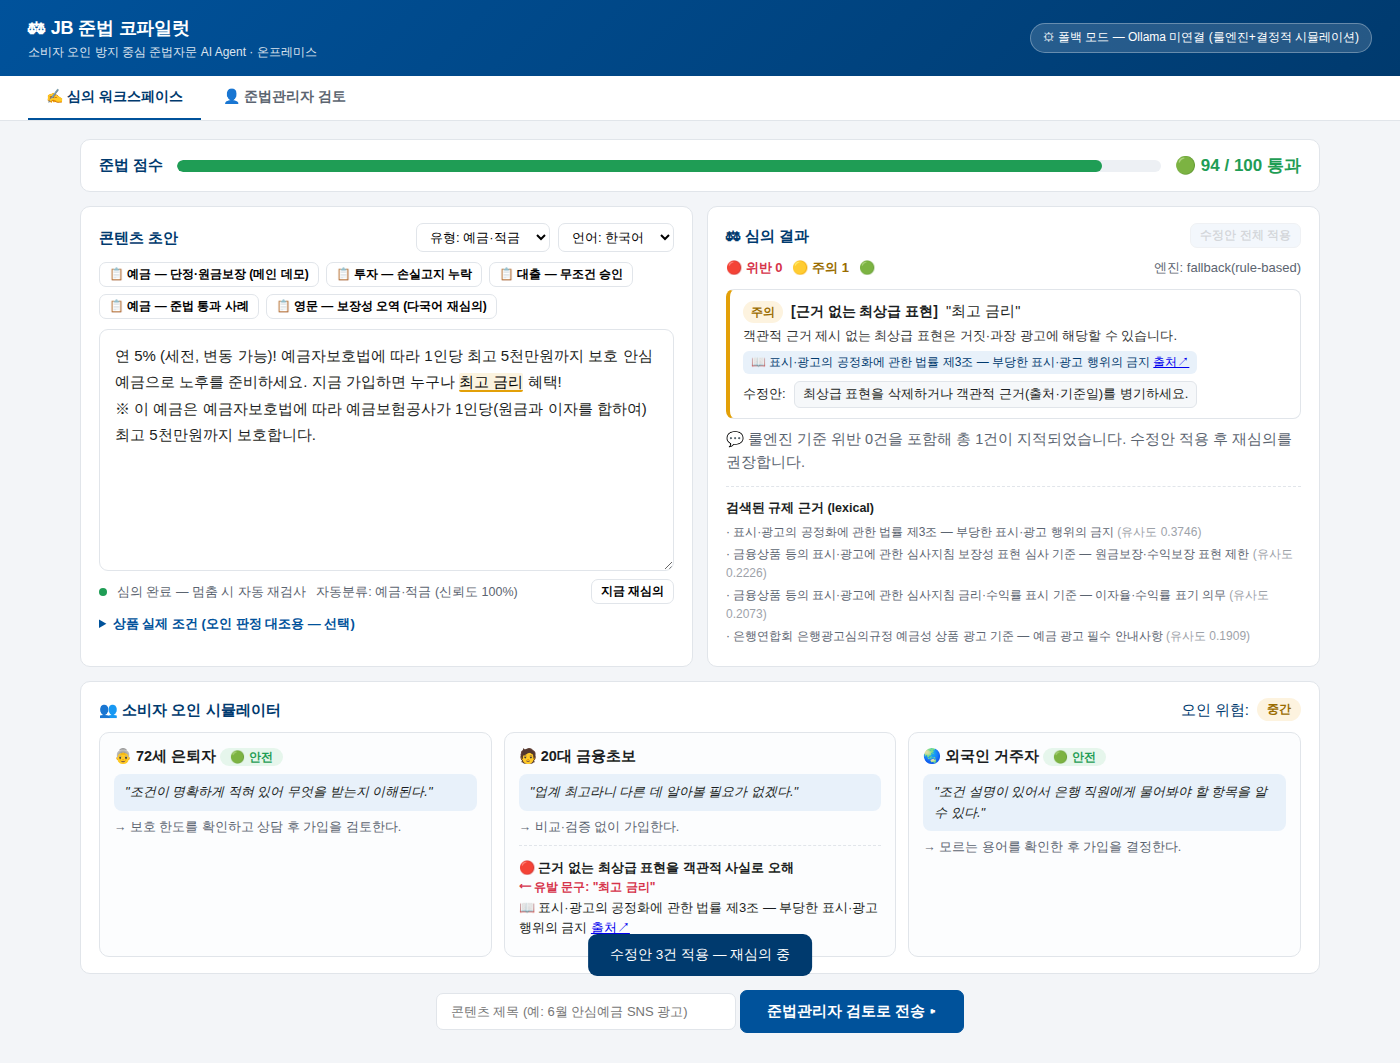
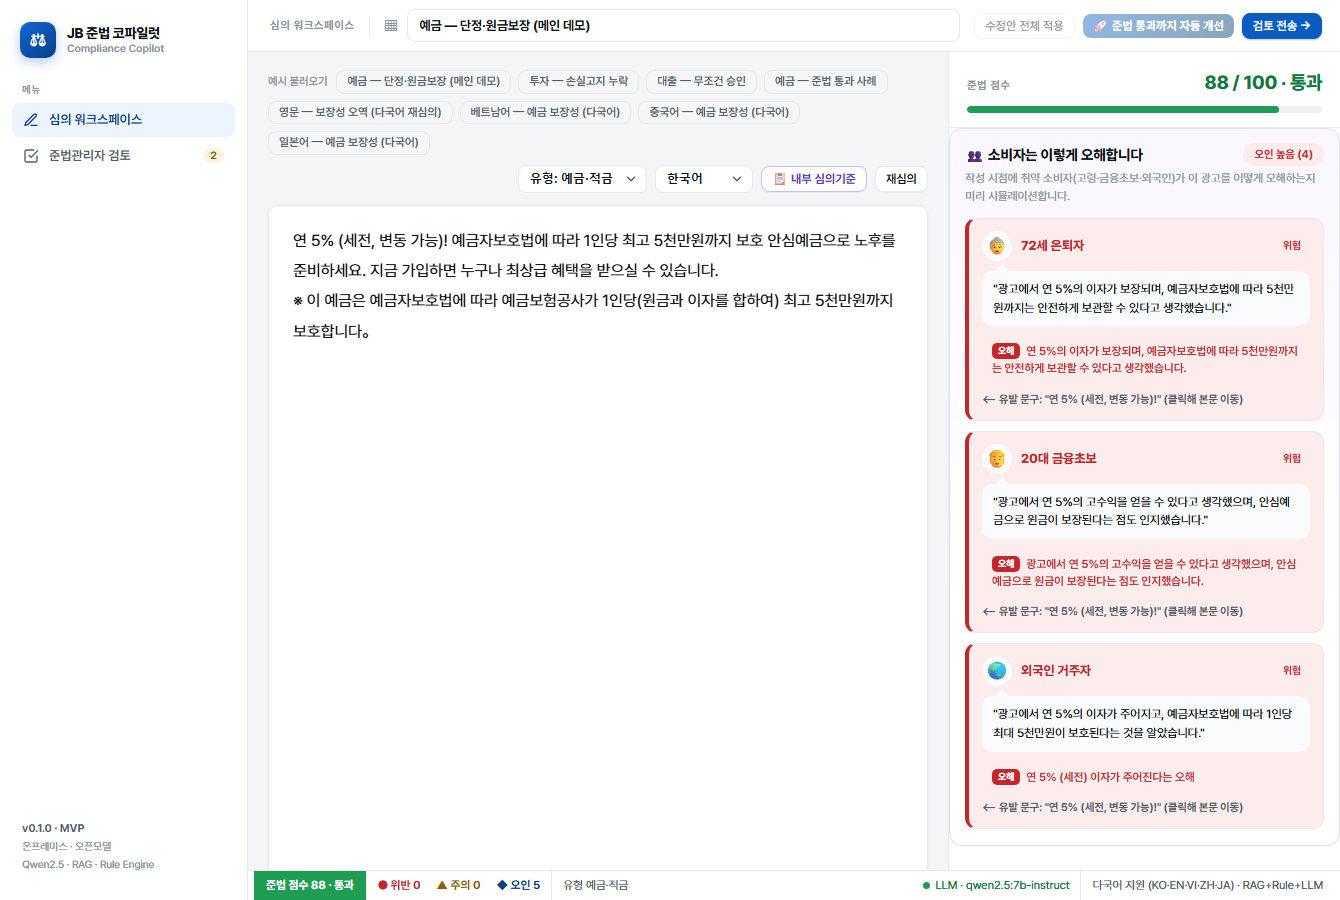
docs: align submission docs + storyboard with simulator-headline UI
- feature-spec storyboard (§12): now opens with the persona 'aha' (simulator
  headline) in the first 8-24s instead of the violations list, then autopilot,
  approval, internal rules, multilingual. Differentiator ① relabeled headline.
- user-guide: screen guide + demo scenario lead with the headline simulator;
  internal-rules step added.
- Regenerated ui_workspace.png / ui_fixed.png showing the new headline layout
  (persona reaction cards under the score) and the autopilot 88-pass state.
- Regenerated feature-spec + user-guide PDFs.

diff --git a/docs/manual/user-guide.html b/docs/manual/user-guide.html
@@ -117,17 +117,18 @@ ollama serve          # http://localhost:11434 에서 대기</code></pre>
 <h2><span class="num">3</span>화면 구성 — 심의 워크스페이스</h2>
 <figure>
   <img src="img/ui_workspace.png" alt="심의 워크스페이스">
-  <figcaption>위반 광고 픽스처 심의 결과 — 🔴 52점, 위험 문구 밑줄, 규제 출처 인용, 페르소나별 오해</figcaption>
+  <figcaption>위반 광고 심의 결과 — 우측 <b>헤드라인 「👥 소비자는 이렇게 오해합니다」</b>에 페르소나 3종의 1인칭 오해·유발 문구가 먼저 보이고, 좌측 에디터엔 위험 문구 자동 밑줄, 그 아래 검토 결과에 규제 출처 인용 (🔴 위험)</figcaption>
 </figure>
 <table>
   <thead><tr><th style="width:170px">영역</th><th>기능</th></tr></thead>
   <tbody>
     <tr><td>상단 준법 점수 바</td><td>0~100점 게이지 + 등급 (🟢 통과 / 🟡 주의 / 🔴 위험)</td></tr>
+    <tr><td>👥 오인 시뮬레이터 <b>(우측 헤드라인)</b></td><td><b>화면을 열면 가장 먼저 보이는 핵심 패널.</b> 점수 바로 아래에 페르소나 3종 리액션 카드: 말풍선 속 1인칭 이해("…원금 보장이니 안전하겠네") → 🔴 위험 오해 + ⟵ 유발 문구(클릭 시 본문 이동) + 근거 조항. 헤더에 종합 오인 위험도</td></tr>
     <tr><td>콘텐츠 초안 (좌)</td><td>초안 입력 에디터. 위험 문구가 자동 밑줄 표시됩니다(빨강=위반, 노랑=주의). 유형(자동분류/예금/투자/대출)과 언어(한국어/English)를 선택할 수 있습니다.</td></tr>
     <tr><td>📋 픽스처 버튼</td><td>데모용 샘플 광고 5종을 원클릭 입력 (위반 4종 + 통과 1종)</td></tr>
+    <tr><td>📋 내부 심의기준 버튼</td><td>자연어 내규를 AI가 룰로 변환해 법규와 함께 적용 (비개발자용 · 〔내규〕 배지로 구분)</td></tr>
     <tr><td>상품 실제 조건</td><td>(선택) 접이식 입력란. 오인 시뮬레이터가 소비자의 '이해'를 실제 조건과 대조할 때 사용</td></tr>
-    <tr><td>⚖ 심의 결과 (우)</td><td>위반/주의 건수, 지적별 [룰명] + 문제 문구 + 설명 + 📖 규제 근거(출처 링크) + 수정안 [적용] 버튼. 하단에 RAG가 검색한 규제 근거 목록</td></tr>
-    <tr><td>👥 오인 시뮬레이터 (하)</td><td>페르소나 3종 카드: 1인칭 이해("…안전한 예금이네") → 행동 → 🔴 위험 오해 + ⟵ 유발 문구 + 근거 조항. 우측 상단에 종합 오인 위험도</td></tr>
+    <tr><td>⚖ 검토 결과 (우, 시뮬레이터 아래)</td><td>위반/주의 건수, 지적별 [룰명] + 문제 문구 + 설명 + 📖 규제 근거(출처 링크) + 수정안 [적용] 버튼. 하단에 RAG가 검색한 규제 근거 목록</td></tr>
     <tr><td>🚀 준법 통과까지 자동 개선</td><td>(자율 에이전트) 위반 초안을 심의→고쳐쓰기→재심의로 🟢통과/종료조건까지 자동 반복. 점수가 차오르는 회차별 수정 내역과 규제 근거가 오버레이로 표시되며, 결과는 사람 승인을 위해 바로 검토로 전송할 수 있습니다.</td></tr>
     <tr><td>검토로 전송</td><td>제목 입력 후 [준법관리자 검토로 전송 ▸] → 검토 대기열에 등록</td></tr>
   </tbody>
@@ -151,16 +152,16 @@ ollama serve          # http://localhost:11434 에서 대기</code></pre>
 <h2><span class="num">5</span>표준 사용 시나리오 (90초 데모)</h2>
 <ol>
   <li>워크스페이스에서 <b>📋 예금 — 단정·원금보장 (메인 데모)</b> 클릭 → <i>"확정 연 5%! 원금 보장 안심예금…"</i> 자동 입력·심의</li>
-  <li>결과 확인: 🔴 위험(52점), "확정 연 5%"·"원금 보장" 밑줄, 금소법 §22 등 근거 인용</li>
-  <li>하단 오인 시뮬레이터: 👵 "원금 보장되는 안전한 예금이네" 등 페르소나별 위험 오해 + 유발 문구 확인</li>
-  <li>우측 상단 <b>[수정안 전체 적용]</b> → 자동 재심의 → 🟢 통과(94점), before/after 효과 확인</li>
-  <li><b>(대안·헤드라인) [🚀 준법 통과까지 자동 개선]</b> → 점수 게이지가 🔴46→🟡82→🟢88로 자율 상승, 회차별 수정 내역(규제 근거 인용)이 쌓이며 통과까지 자동 진행 → 오버레이에서 바로 검토 전송. <i>수동 적용은 75에서 멈추지만 오토파일럿은 통과까지 갑니다.</i></li>
+  <li><b>★ 가장 먼저 — 우측 헤드라인 「👥 소비자는 이렇게 오해합니다」</b>: 👵 "원금 보장이니 안전하겠네", 🧑 20대, 🌏 외국인이 각자 1인칭으로 오해하는 리액션 카드 + 🔴 + ⟵ 유발 문구</li>
+  <li>그 오해의 근거: 좌측 에디터의 "확정 연 5%"·"원금 보장" 자동 밑줄, 아래 검토 결과에 금소법 §22 등 출처 인용, 🔴 위험(52점)</li>
+  <li><b>[🚀 준법 통과까지 자동 개선]</b> → 점수 게이지가 🔴46→🟡82→🟢88로 자율 상승, 회차별 수정 내역(규제 근거 인용)이 쌓이며 통과까지 자동 진행 → 오버레이에서 바로 검토 전송. <i>(수동 [수정안 전체 적용]도 가능하나 75에서 멈춤 — 오토파일럿은 통과까지)</i></li>
   <li>제목 입력 → <b>[준법관리자 검토로 전송 ▸]</b> → 검토 탭에서 코멘트와 함께 <b>✓ 승인</b> (감사로그에 AI 자동개선과 사람 승인이 분리 기록됨)</li>
+  <li>(선택) <b>[📋 내부 심의기준]</b> → 평문 내규 입력 → [AI로 룰 변환] → 적용 시 〔내규〕 배지로 법규와 함께 검출</li>
   <li>승인된 항목에서 <b>[🌏 영문 버전 생성 + 재심의]</b> → 직역에서 생긴 <code>guaranteed</code> 등 보장성 오역·예금자보호 고지 누락을 영문 룰셋이 검출하는 것 확인</li>
 </ol>
 <figure>
-  <img src="img/ui_fixed.png" alt="수정안 적용 후">
-  <figcaption>수정안 전체 적용 후 — 🟢 94점 통과로 전환된 모습</figcaption>
+  <img src="img/ui_fixed.png" alt="오토파일럿 자동 개선 후">
+  <figcaption>준법 오토파일럿 자동 개선 후 — 🔴 46 → <b>🟢 88 통과</b>로 전환, 헤드라인 시뮬레이터의 오해도 함께 감소</figcaption>
 </figure>
 
 <h2><span class="num">6</span>테스트 실행</h2>